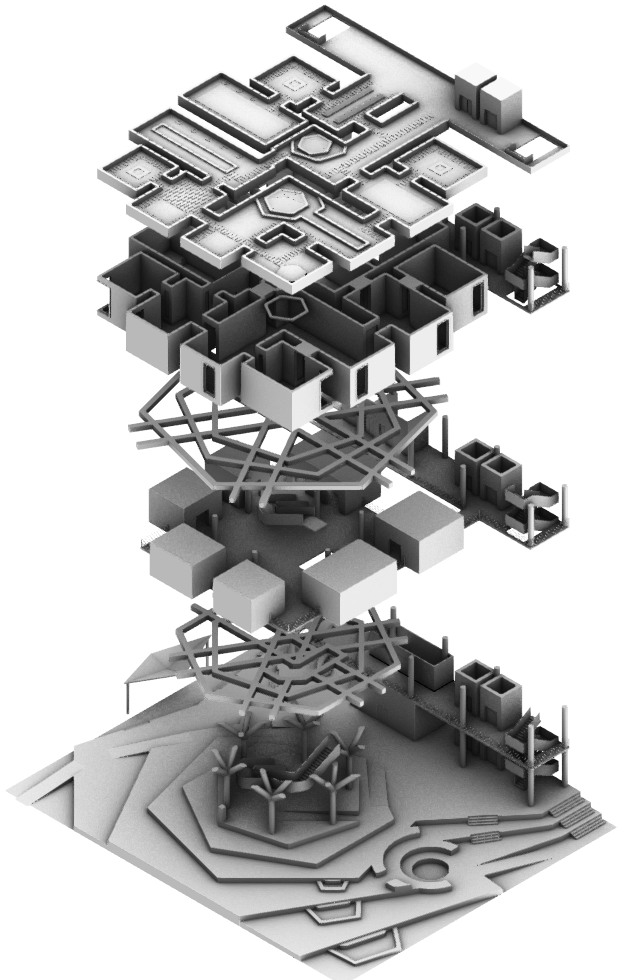
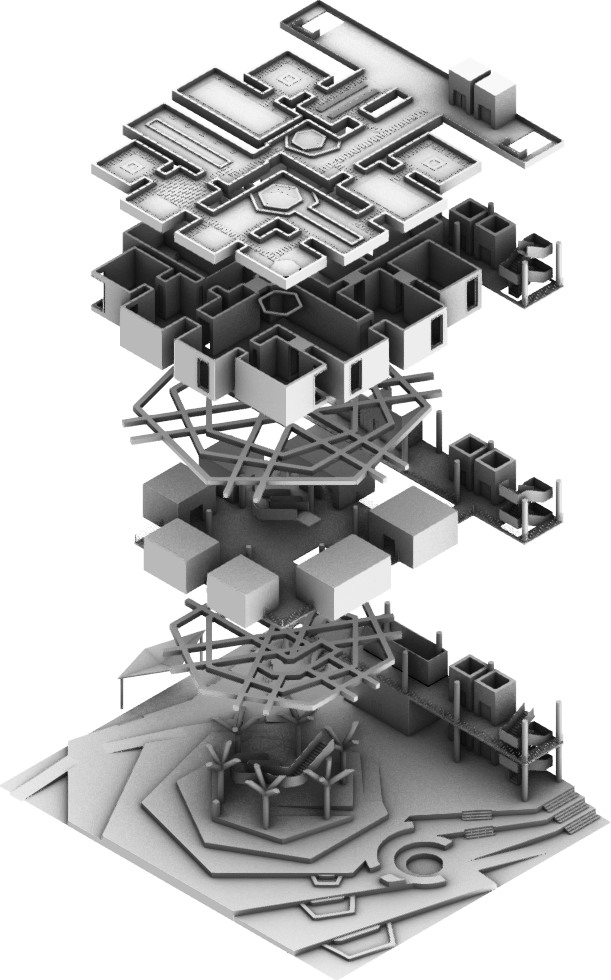
Monti Prenestini revisions, edge-aligned captions, mobile swipe carousels
- Images cropped to their visible edges (or captions inset to them) across
  projects so labels line up with what you see
- Monti: new order, map note, 02 above the routes (under the map on mobile),
  selectors appear early and jump to the chosen map, strip on the ridge
- Mobile: profile and route maps swipe sideways with a peek and dots
- Two academic placeholders; strips stay on one row

Changed region(s): [[0.0, 0.0, 0.9951, 1.0], [0.2799, 0.7653, 0.311, 0.7959]]

diff --git a/js/projects.js b/js/projects.js
@@ -45,7 +45,7 @@
 */
 
 // Bump whenever an image file is replaced under the same name, so browsers fetch the new one
-const IMAGE_VERSION = 9;
+const IMAGE_VERSION = 10;
 
 const CATEGORIES = [
   { id: "academic", label: "Academic", prefix: "A" },
@@ -156,9 +156,9 @@ const PROJECTS = [
         id: "yc-plans",
         hideOnMobile: true,
         images: [
-          { src: "assets/img/projects/youth-center/06.jpg", ratio: 1.061, caption: "Ground Floor Plan", tab: "Ground" },
-          { src: "assets/img/projects/youth-center/07.jpg", ratio: 1.061, caption: "+5' Floor Plan", tab: "+5'" },
-          { src: "assets/img/projects/youth-center/08.jpg", ratio: 1.061, caption: "Gym Floor Plan", tab: "Gym" },
+          { src: "assets/img/projects/youth-center/06.jpg", ratio: 1.061, caption: "Ground Floor Plan", tab: "Ground", captionInset: "7.7%" },
+          { src: "assets/img/projects/youth-center/07.jpg", ratio: 1.061, caption: "+5' Floor Plan", tab: "+5'", captionInset: "7.7%" },
+          { src: "assets/img/projects/youth-center/08.jpg", ratio: 1.061, caption: "Gym Floor Plan", tab: "Gym", captionInset: "5.9%" },
         ],
       },
       {
@@ -172,8 +172,8 @@ const PROJECTS = [
       {
         layout: "row",
         images: [
-          { src: "assets/img/projects/youth-center/12.jpg", ratio: 1.104, caption: "Exploded Axonometric" },
-          { src: "assets/img/projects/youth-center/11.jpg", ratio: 0.402, caption: "Wall Section", hideOnMobile: true },
+          { src: "assets/img/projects/youth-center/12.jpg", ratio: 1.104, caption: "Exploded Axonometric", captionInset: "4%" },
+          { src: "assets/img/projects/youth-center/11.jpg", ratio: 0.3818, caption: "Wall Section", hideOnMobile: true },
         ],
       },
     ],
@@ -208,22 +208,23 @@ const PROJECTS = [
             src: "assets/img/projects/ziggurat-of-leaves/progression.jpg",
             ratio: 0.821,
             caption: "Progression Diagram",
+            captionInset: "2.8%",
             labels: [
               { text: "01 Ziggurat", x: "34%", y: "25.6%", dark: true },
               { text: "02 Tree", x: "82.7%", y: "51.4%", dark: true },
               { text: "03 Ziggurat of Leaves", x: "51.5%", y: "93.2%", dark: true },
             ],
           },
-          { src: "assets/img/projects/ziggurat-of-leaves/light.jpg", ratio: 1.816, caption: "Light Diagram" },
-          { src: "assets/img/projects/ziggurat-of-leaves/wind.jpg", ratio: 1.816, caption: "Wind Diagram" },
+          { src: "assets/img/projects/ziggurat-of-leaves/light.jpg", ratio: 1.816, caption: "Light Diagram", captionInset: "4.3%" },
+          { src: "assets/img/projects/ziggurat-of-leaves/wind.jpg", ratio: 1.816, caption: "Wind Diagram", captionInset: "1.5%" },
         ],
       },
       {
         layout: "carousel", // web: one plan between arrows, levels in the sidebar; mobile: stacked
         images: [
-          { src: "assets/img/projects/ziggurat-of-leaves/plan-ground.jpg", ratio: 1.2975, caption: "Ground Floor Plan", tab: "Ground" },
-          { src: "assets/img/projects/ziggurat-of-leaves/plan-1.jpg", ratio: 1.2975, caption: "Level 1 Floor Plan", tab: "Level 1" },
-          { src: "assets/img/projects/ziggurat-of-leaves/plan-2.jpg", ratio: 1.2975, caption: "Level 2 Floor Plan", tab: "Level 2" },
+          { src: "assets/img/projects/ziggurat-of-leaves/plan-ground.jpg", ratio: 1.2975, caption: "Ground Floor Plan", tab: "Ground", captionInset: "2.2%" },
+          { src: "assets/img/projects/ziggurat-of-leaves/plan-1.jpg", ratio: 1.2975, caption: "Level 1 Floor Plan", tab: "Level 1", captionInset: "2.2%" },
+          { src: "assets/img/projects/ziggurat-of-leaves/plan-2.jpg", ratio: 1.2975, caption: "Level 2 Floor Plan", tab: "Level 2", captionInset: "2.2%" },
         ],
       },
       {
@@ -235,7 +236,7 @@ const PROJECTS = [
       },
       { src: "assets/img/projects/ziggurat-of-leaves/full-render-structure.jpg" },
       // source is low-res: shown at its native width on desktop so it stays crisp
-      { src: "assets/img/projects/ziggurat-of-leaves/axon-nw.jpg", caption: "Exploded Axonometric", nativeWidth: 624 },
+      { src: "assets/img/projects/ziggurat-of-leaves/axon-nw.jpg", caption: "Exploded Axonometric", nativeWidth: 611 },
     ],
   },
   {
@@ -254,46 +255,70 @@ const PROJECTS = [
     ],
     images: [
       { src: "assets/img/projects/monti-prenestini/site-plan.jpg", caption: "Site plan" },
-      { src: "assets/img/projects/monti-prenestini/01.jpg", caption: "Towns, Peaks and Points of Interest" },
-      { src: "assets/img/projects/monti-prenestini/02.jpg", caption: "Transit and Bus Routes" },
+      { src: "assets/img/projects/monti-prenestini/01.jpg", caption: "Monti Prenestini Map", note: "This map shows towns, mountains, and points of interest." },
+      { src: "assets/img/projects/monti-prenestini/02.jpg", caption: "Transit and Bus Routes", mobileOnly: true }, // mobile: right under the map
       { src: "assets/img/projects/monti-prenestini/profiles/selection.jpg", caption: "Circulation Paths: User Profiles" },
       {
-        layout: "carousel", // web: one profile at a time, names in the sidebar; mobile: stacked
+        layout: "carousel", // web: one profile at a time, names in the sidebar; mobile: swipe
         list: true,
         width: "100%",
+        revealEarly: true, // names show while the overview above is on screen
+        mobileSwipe: true,
         images: [
-          { src: "assets/img/projects/monti-prenestini/profiles/01-christiano.jpg", ratio: 1.414, caption: "Christiano, Horseback Rider", tab: "Christiano" },
-          { src: "assets/img/projects/monti-prenestini/profiles/02-giorgio.jpg", ratio: 1.414, caption: "Giorgio, Rock Climber", tab: "Giorgio" },
-          { src: "assets/img/projects/monti-prenestini/profiles/03-gianna.jpg", ratio: 1.414, caption: "Gianna, Biker", tab: "Gianna" },
-          { src: "assets/img/projects/monti-prenestini/profiles/04-fabrizio.jpg", ratio: 1.414, caption: "Fabrizio, National Hiker", tab: "Fabrizio" },
-          { src: "assets/img/projects/monti-prenestini/profiles/05-jan.jpg", ratio: 1.414, caption: "Jan, International Hiker", tab: "Jan" },
-          { src: "assets/img/projects/monti-prenestini/profiles/06-maria.jpg", ratio: 1.414, caption: "Maria, Person of Faith", tab: "Maria" },
+          { src: "assets/img/projects/monti-prenestini/profiles/01-christiano.jpg", ratio: 1.467, caption: "Christiano, Horseback Rider", tab: "Christiano", captionInset: "1.1%" },
+          { src: "assets/img/projects/monti-prenestini/profiles/02-giorgio.jpg", ratio: 1.467, caption: "Giorgio, Rock Climber", tab: "Giorgio", captionInset: "1.1%" },
+          { src: "assets/img/projects/monti-prenestini/profiles/03-gianna.jpg", ratio: 1.467, caption: "Gianna, Biker", tab: "Gianna", captionInset: "1.1%" },
+          { src: "assets/img/projects/monti-prenestini/profiles/04-fabrizio.jpg", ratio: 1.467, caption: "Fabrizio, National Hiker", tab: "Fabrizio", captionInset: "1.1%" },
+          { src: "assets/img/projects/monti-prenestini/profiles/05-jan.jpg", ratio: 1.467, caption: "Jan, International Hiker", tab: "Jan", captionInset: "1.1%" },
+          { src: "assets/img/projects/monti-prenestini/profiles/06-maria.jpg", ratio: 1.467, caption: "Maria, Person of Faith", tab: "Maria", captionInset: "1.1%" },
         ],
       },
+      { src: "assets/img/projects/monti-prenestini/02.jpg", caption: "Transit and Bus Routes", hideOnMobile: true }, // web: leads into the routes
       {
         layout: "carousel", // routes by mode of travel
         list: true,
         width: "100%",
+        revealEarly: true,
+        mobileSwipe: true,
         images: [
-          { src: "assets/img/projects/monti-prenestini/routes/01-horseback-riding.jpg", ratio: 1.414, caption: "Horseback Trails", tab: "Horseback" },
-          { src: "assets/img/projects/monti-prenestini/routes/02-hiking-trails.jpg", ratio: 1.414, caption: "Hiking Trails", tab: "Hiking" },
-          { src: "assets/img/projects/monti-prenestini/routes/03-road-cycling.jpg", ratio: 1.414, caption: "Road Cycling Routes", tab: "Road Cycling" },
-          { src: "assets/img/projects/monti-prenestini/routes/04-existing-bus-route.jpg", ratio: 1.414, caption: "Existing Bus Route", tab: "Existing Bus" },
-          { src: "assets/img/projects/monti-prenestini/routes/05-proposed-bus-route.jpg", ratio: 1.414, caption: "Proposed Bus Route", tab: "Proposed Bus" },
+          { src: "assets/img/projects/monti-prenestini/routes/01-horseback-riding.jpg", ratio: 1.4413, caption: "Horseback Trails", tab: "Horseback" },
+          { src: "assets/img/projects/monti-prenestini/routes/02-hiking-trails.jpg", ratio: 1.4413, caption: "Hiking Trails", tab: "Hiking" },
+          { src: "assets/img/projects/monti-prenestini/routes/03-road-cycling.jpg", ratio: 1.4413, caption: "Road Cycling Routes", tab: "Road Cycling" },
+          { src: "assets/img/projects/monti-prenestini/routes/04-existing-bus-route.jpg", ratio: 1.4413, caption: "Existing Bus Route", tab: "Existing Bus" },
+          { src: "assets/img/projects/monti-prenestini/routes/05-proposed-bus-route.jpg", ratio: 1.4413, caption: "Proposed Bus Route", tab: "Proposed Bus" },
         ],
       },
       { src: "assets/img/projects/monti-prenestini/zag-site.jpg", caption: "Zagarolo Station: Site Plan" },
-      { src: "assets/img/projects/monti-prenestini/zag-site-section.jpg", caption: "Site Section" },
       { src: "assets/img/projects/monti-prenestini/zag-plaza-plan.jpg", caption: "Sunken Plaza Plan" },
+      { src: "assets/img/projects/monti-prenestini/zag-day.jpg", caption: "Plaza by Day" },
+      { src: "assets/img/projects/monti-prenestini/zag-night.jpg", caption: "Plaza by Night" },
       { src: "assets/img/projects/monti-prenestini/zag-plaza-section.jpg", caption: "Plaza Section" },
-      {
-        layout: "row",
-        images: [
-          { src: "assets/img/projects/monti-prenestini/zag-day.jpg", ratio: 1.414, caption: "Plaza by Day" },
-          { src: "assets/img/projects/monti-prenestini/zag-night.jpg", ratio: 1.414, caption: "Plaza by Night" },
-        ],
-      },
+      { src: "assets/img/projects/monti-prenestini/zag-site-section.jpg", caption: "Site Section" },
     ],
+  },
+  {
+    slug: "academic-05",
+    category: "academic",
+    title: "Academic Project 05",
+    year: "",
+    location: "",
+    type: "",
+    strip: "assets/img/placeholder-4.svg",
+    stripFocus: "50% 50%",
+    summary: "Placeholder: project coming soon.",
+    images: [{ src: "assets/img/placeholder-4.svg" }],
+  },
+  {
+    slug: "academic-06",
+    category: "academic",
+    title: "Academic Project 06",
+    year: "",
+    location: "",
+    type: "",
+    strip: "assets/img/placeholder-3.svg",
+    stripFocus: "50% 50%",
+    summary: "Placeholder: project coming soon.",
+    images: [{ src: "assets/img/placeholder-3.svg" }],
   },
   {
     slug: "practice-01",

diff --git a/js/main.js b/js/main.js
@@ -274,10 +274,13 @@
         .join("");
       const names = block.images.map((img) => img.tab || img.caption);
       return `
-      <figure class="gallery-carousel${block.hideOnMobile ? " hide-mobile" : ""}"${block.id ? ` data-id="${block.id}"` : ""}${
+      <figure class="gallery-carousel${block.hideOnMobile ? " hide-mobile" : ""}${block.mobileSwipe ? " is-swipe" : ""}"${block.id ? ` data-id="${block.id}"` : ""}${
         block.list ? ` data-list="1"` : ""
+      }${block.revealEarly ? ` data-early="1"` : ""}${block.mobileSwipe ? ` data-swipe="1"` : ""
       }${block.width ? ` style="--stage-w:${block.width}"` : ""} data-tabs="${escapeHTML(JSON.stringify(names))}">
-        <div class="carousel-body">${arrow("prev")}<div class="carousel-stage">${slides}</div>${arrow("next")}</div>
+        <div class="carousel-body">${arrow("prev")}<div class="carousel-stage">${slides}</div>${arrow("next")}</div>${
+          block.mobileSwipe ? `<div class="carousel-dots" aria-hidden="true">${block.images.map(() => "<span></span>").join("")}</div>` : ""
+        }
       </figure>`;
     };
 
@@ -295,8 +298,9 @@
         const list = labelList(listed);
 
         if (!block.layout) {
-          const native = block.nativeWidth ? ` class="is-native" style="--native-w:${block.nativeWidth}px"` : "";
-          return `<figure${native}>${image(block)}${list}${caption(block.caption, block.note)}</figure>`;
+          const cls = [block.nativeWidth && "is-native", block.hideOnMobile && "hide-mobile", block.mobileOnly && "mobile-only"].filter(Boolean);
+          const attrs = (cls.length ? ` class="${cls.join(" ")}"` : "") + (block.nativeWidth ? ` style="--native-w:${block.nativeWidth}px"` : "");
+          return `<figure${attrs}>${image(block)}${list}${caption(block.caption, block.note)}</figure>`;
         }
         const vars = [
           block.layout === "bands" ? `--band-ratio:${block.ratio || "4 / 1"};--band-focus:${block.focus || "50% 50%"}` : "",
@@ -359,12 +363,23 @@
       };
       show(0);
       if (carousel.dataset.id) controls[carousel.dataset.id] = show;
-      buttons.forEach((b) => b.addEventListener("click", () => show(+b.dataset.i)));
+      // picking a name shows it and, if the carousel isn't centred yet, scrolls to it
+      buttons.forEach((b) =>
+        b.addEventListener("click", () => {
+          show(+b.dataset.i);
+          const s = stage.getBoundingClientRect();
+          if (Math.abs(s.top + s.height / 2 - innerHeight / 2) > innerHeight * 0.15)
+            stage.scrollIntoView({ behavior: "smooth", block: "center" });
+        })
+      );
       carousel.querySelectorAll(".carousel-arrow").forEach((a) => a.addEventListener("click", () => show(current + +a.dataset.step)));
       stage.addEventListener("click", () => show(current + 1));
 
       // Appears level with the top of the plan, slides to the plan's middle by the time the
       // plan is centred on screen, then holds there until the menu reaches it.
+      // revealEarly: shows once the image above is half scrolled past, waiting at the
+      // middle of the screen until the plan arrives.
+      const early = carousel.dataset.early && carousel.previousElementSibling;
       const place = () => {
         if (!matchMedia("(min-width: 761px)").matches) return selector.classList.remove("is-visible");
         const s = stage.getBoundingClientRect();
@@ -373,13 +388,31 @@
         const centred = innerHeight / 2 - s.height / 2; // plan top position when centred
         const t = Math.min(1, Math.max(0, (appear - s.top) / (appear - centred)));
         const floor = menu.getBoundingClientRect().bottom + 28; // just below the menu
-        const top = Math.max(s.top + t * (s.height / 2 - h / 2), floor);
+        let top = s.top + t * (s.height / 2 - h / 2);
+        if (early) top = Math.min(top, innerHeight / 2 - h / 2);
+        top = Math.max(top, floor);
         selector.style.top = `${top}px`;
-        selector.classList.toggle("is-visible", s.top < appear && s.bottom > top + h);
+        let start = s.top < appear;
+        if (early) {
+          const a = early.getBoundingClientRect();
+          start = start || a.top + a.height / 2 < innerHeight / 2;
+        }
+        selector.classList.toggle("is-visible", start && s.bottom > top + h);
       };
       place();
       window.addEventListener("scroll", place, { passive: true });
       window.addEventListener("resize", place);
+
+      // mobile swipe: dots follow the slide in view
+      const dots = [...carousel.querySelectorAll(".carousel-dots span")];
+      if (dots.length) {
+        const mark = () => {
+          const i = Math.round(stage.scrollLeft / (slides[1].offsetLeft - slides[0].offsetLeft || 1));
+          dots.forEach((d, j) => d.classList.toggle("is-active", j === Math.min(i, dots.length - 1)));
+        };
+        mark();
+        stage.addEventListener("scroll", mark, { passive: true });
+      }
     });
 
     // desktop: clicking a linked plan opens that level in its carousel and brings it into view

diff --git a/css/style.css b/css/style.css
@@ -316,16 +316,22 @@ html.menu-entering .layout > :not(.menu) {
 
 .strips {
   display: flex;
-  flex-wrap: wrap;
+  flex-wrap: nowrap;
   gap: var(--strip-gap);
   margin: 0;
   padding: 0;
   list-style: none;
 }
 
+/* strips stay on one row, narrowing slightly if a category has many projects */
+.strips li {
+  flex: 0 1 var(--strip-w);
+  min-width: 0;
+}
+
 .strip {
   display: block;
-  width: var(--strip-w);
+  width: 100%;
 }
 
 .strip-frame {
@@ -567,6 +573,20 @@ html.menu-entering .layout > :not(.menu) {
   }
 }
 
+.carousel-dots {
+  display: none; /* mobile only */
+}
+
+.mobile-only {
+  display: none;
+}
+
+@media (max-width: 760px) {
+  .mobile-only {
+    display: block;
+  }
+}
+
 .carousel-arrow {
   padding: 14px; /* generous click area */
   border: 0;
@@ -714,6 +734,46 @@ html.menu-entering .layout > :not(.menu) {
 
   .hide-mobile {
     display: none;
+  }
+
+  /* swipe carousels: slides side by side, the next one peeking in so it reads as
+     scrollable, with dots underneath */
+  .gallery-carousel.is-swipe .carousel-stage {
+    display: flex;
+    gap: 12px;
+    overflow-x: auto;
+    scroll-snap-type: x mandatory;
+    margin-inline: calc(-1 * var(--gutter));
+    padding-inline: var(--gutter);
+    scroll-padding-inline: var(--gutter);
+    scrollbar-width: none;
+  }
+
+  .gallery-carousel.is-swipe .carousel-stage::-webkit-scrollbar {
+    display: none;
+  }
+
+  .gallery-carousel.is-swipe .carousel-slide {
+    flex: 0 0 86%;
+    scroll-snap-align: start;
+  }
+
+  .carousel-dots {
+    display: flex;
+    gap: 7px;
+    margin-top: 10px;
+  }
+
+  .carousel-dots span {
+    width: 6px;
+    height: 6px;
+    border-radius: 50%;
+    background: var(--faint);
+    transition: background 0.2s;
+  }
+
+  .carousel-dots span.is-active {
+    background: var(--ink);
   }
 
   /* carousel: everything stacked with its caption; no tabs */

diff --git a/project.html b/project.html
@@ -25,7 +25,7 @@
   <link rel="icon" href="assets/img/favicon.svg" type="image/svg+xml">
   <link rel="icon" href="assets/img/favicon-32.png" sizes="32x32" type="image/png">
   <link rel="apple-touch-icon" href="assets/img/apple-touch-icon.png">
-  <link rel="stylesheet" href="css/style.css?v=38">
+  <link rel="stylesheet" href="css/style.css?v=40">
 </head>
 <body data-page="project">
 
@@ -48,7 +48,7 @@
     <article class="project" id="project"></article>
   </main>
 
-  <script src="js/projects.js?v=38"></script>
-  <script src="js/main.js?v=38"></script>
+  <script src="js/projects.js?v=40"></script>
+  <script src="js/main.js?v=40"></script>
 </body>
 </html>

diff --git a/index.html b/index.html
@@ -30,7 +30,7 @@
   <link rel="preconnect" href="https://fonts.googleapis.com">
   <link rel="preconnect" href="https://fonts.gstatic.com" crossorigin>
   <link rel="stylesheet" href="https://fonts.googleapis.com/css2?family=Inter:wght@400;700&display=swap">
-  <link rel="stylesheet" href="css/style.css?v=38">
+  <link rel="stylesheet" href="css/style.css?v=40">
 </head>
 <body data-page="index">
 
@@ -157,7 +157,7 @@
     </div>
   </main>
 
-  <script src="js/projects.js?v=38"></script>
-  <script src="js/main.js?v=38"></script>
+  <script src="js/projects.js?v=40"></script>
+  <script src="js/main.js?v=40"></script>
 </body>
 </html>
